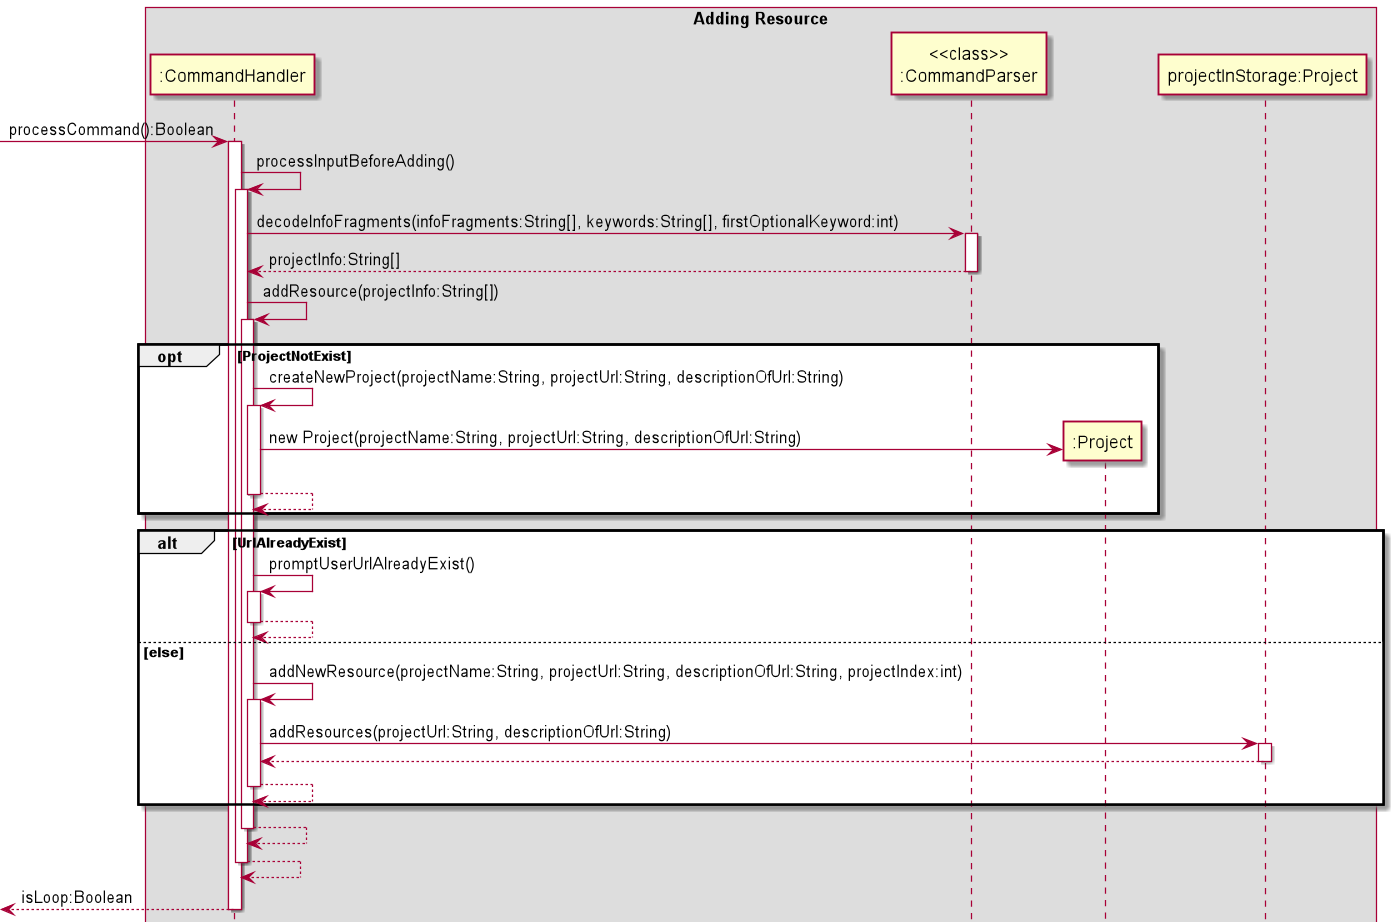
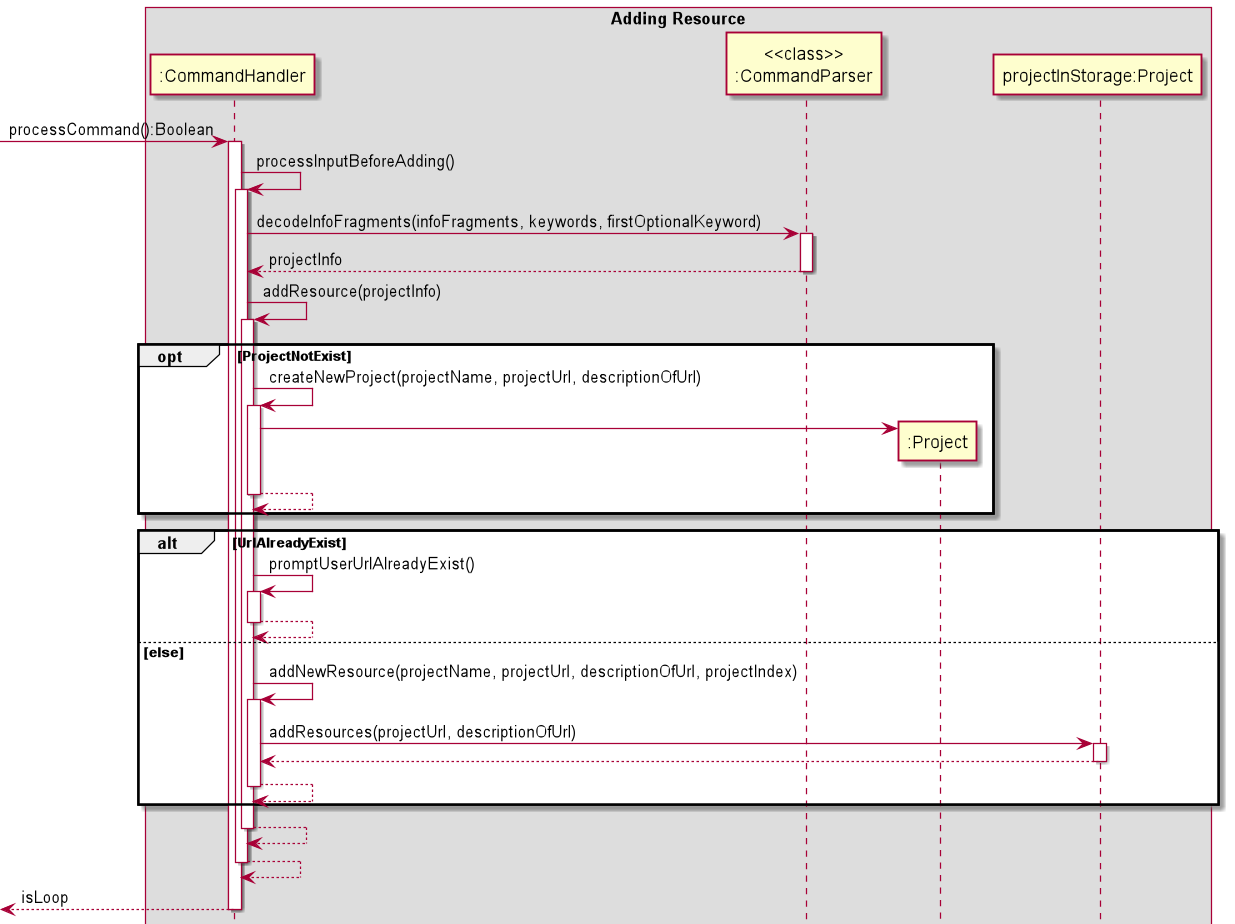
[Sam] update of add.png and my intro

diff --git a/docs/DeveloperGuide.md b/docs/DeveloperGuide.md
@@ -24,10 +24,10 @@ The user executes the following commands in order to add a resources to a projec
 
 The following sequence diagram shows how the add operation works:
 ![add_png](puml_img/Add.png)
+> The arrow pointing from :CommandHandler to :Project should be pointed at the middle of :project. However, due to 
+> limitation of PlantUML, the arrow is pointed at the left-hand corner of :Project.
 
-> Note: P2:Project is defined as an entity that is already existing in the project list ArrayList<Project>, the position
-> of which should be lower than ArrayList<Project>. However, due to a limitation in PlantUML, the position of P3 is 
-> higher than ArrayList<Project>.
+> projectInStorage:Project represents a project that is already existing in the project list of the program.
 
 **Design Consideration**
 

diff --git a/docs/team/ngmansing.md b/docs/team/ngmansing.md
@@ -1,5 +1,10 @@
 # Ng Man Sing (Sam)
 I am an exchange student from Hong Kong, studying cs2113 in NUS now.
-## Background
+### Overview
 - Home University: The Hong Kong Polytechnic University (PolyU) 
 - Major: Electrical Engineering
+### Summary of Contributions
+* Developed core classes that support the development of functionalities such as InputParser and CommandParser.
+* Add example outputs for most features in User Guide.
+* Refactor source code such as extracting methods, removing magic numbers/literals and avoiding other coding violations.
+* `add` features (Implementation, JUnit Testing, Documentations, Exception handling, etc.)
